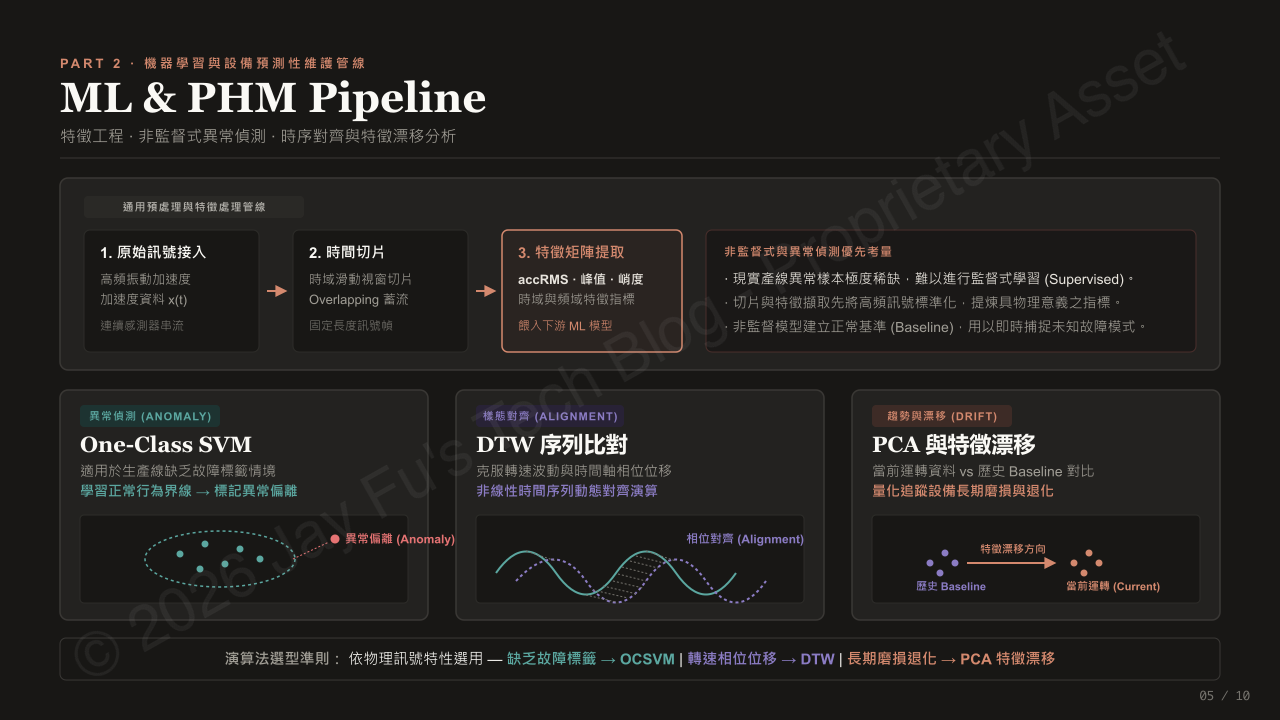
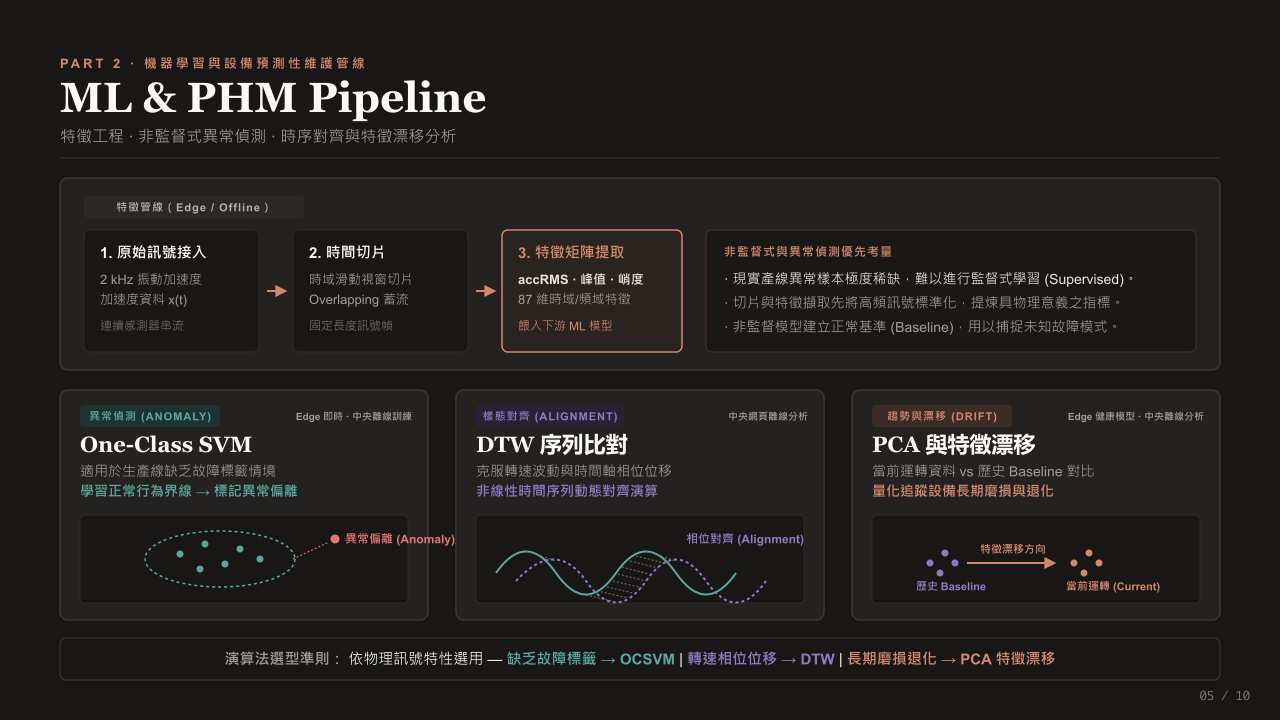
content: sync Edge AI platform post with updated slides

diff --git a/content/en/projects/edge-ai-platform-ppt169/index.md b/content/en/projects/edge-ai-platform-ppt169/index.md
@@ -20,7 +20,8 @@ cover:
 
 {{< tldr >}}
 - Five layers: React/MUI, Flask APIs, analytics, edge execution, and SQLite persistence.
-- A bounded deque batches recent samples (500 records or ~5s) but is not a durable queue.
+- The platform uses a bounded deque to batch recent feature rows (500 records or ~5s); it is not a durable queue.
+- Live inference runs on the edge; central services handle buffering, monitoring, offline training, and DTW analysis.
 - PHM uses RMS/FFT, One-Class SVM, DTW, and PCA drift monitoring; engineers interpret results.
 - AI agents are controlled clients: the backend enforces allowlists, authorization, validation, and audit logging.
 - Deployment starts as a Docker Compose edge monolith; decouple workers only when measurements justify it.
@@ -40,9 +41,9 @@ The platform turns equipment signals into information engineers can use to inves
 
 ```mermaid
 flowchart LR
-    A[Sensor Data] --> B[Feature Engineering]
-    B --> C[ML Analysis]
-    C --> D[Edge Inference]
+    A[Sensor Data] --> B[Edge Slicing / Features]
+    B --> C[Edge Health Inference]
+    C --> D[Platform Buffering / Persistence]
     D --> E[Health Monitoring]
     E --> F[AI Agent]
     F --> G[Engineering Decision]
@@ -52,10 +53,12 @@ The platform provides four capabilities:
 
 | Capability | Purpose |
 | --- | --- |
-| Sensor-data processing | Collect, organize, and transform equipment signals into usable data |
-| Feature engineering and ML | Extract signal characteristics, identify unusual patterns, and support health assessment |
-| Health monitoring | Track health scores, historical changes, and potential abnormal conditions |
+| Sensor-data processing | Collect 2 kHz vibration signals and prepare 30-second chunks |
+| Edge feature engineering and inference | Extract 87 time/frequency features and compute a health score with OCSVM/IForest on the edge |
+| Health monitoring | Track health scores and alerts; central services buffer feature rows and persist them to SQLite |
 | AI-assisted workflows | Retrieve relevant data, summarize findings, and help engineers investigate the next step |
+
+Central services handle buffering, persistence, offline training, PCA drift analysis, and DTW comparison separately from the live edge path.
 
 The AI agent is an assistance layer, not an autonomous replacement for engineering judgment.
 
@@ -141,6 +144,8 @@ Layering is a responsibility boundary, not independent microservices: the fronte
 
 Edge execution runs locally to keep high-frequency samples off the central service; the split depends on latency, compute, network, data volume, and deployment.
 
+On the live path, feature extraction and health inference run in L4 Edge; L3 handles offline training, batch analysis, and model management.
+
 ### 3.2 Frontend and backend collaboration
 
 The frontend uses React 18, Material UI, and React Flow; the backend uses Flask REST APIs with Blueprints for sensors, models, devices, users, and agents.
@@ -157,52 +162,56 @@ Latency metrics need consistent start and end points, must distinguish average, 
 
 ![End-to-end data flow](images/04_end_to_end_data_flow.png)
 
-The data flow defines how data enters, is processed, and stays stable under bursts.
+The data flow defines how data is sliced, featurized, and scored on the edge, and how the platform buffers, persists, and monitors it.
 
 ```mermaid
 flowchart LR
-    A["Sensor /<br/>File Input"] --> B["In-Memory<br/>Buffer"]
-    B --> C{"Batch<br/>Trigger<br/>(time or size)"}
+    A["Sensor<br/>2 kHz"] --> B["Slicing / Window<br/>2000 samples · 250 hop"]
+    B --> C["Feature Extraction<br/>87 dimensions"]
+    C --> D["Health Inference<br/>OCSVM / IForest"]
 ```
 
 ```mermaid
 flowchart LR
-    D["Persist /<br/>Prepare Batch"] --> E["Feature<br/>Extraction"]
-    E --> F["ML / PHM<br/>Analysis"]
+    E["HTTP POST<br/>features + score"] --> F["Bounded Queue<br/>deque(maxlen=5000)"]
+    F --> G["Batch Write<br/>5s / max 500"]
+    G --> H["SQLite<br/>10,000 feature rows"]
 ```
 
 ```mermaid
 flowchart LR
-    G["Health Score<br/>and Anomaly<br/>Results"] --> H["Dashboard /<br/>Report / Alert"]
-    H --> I["Engineer<br/>Review and<br/>Action"]
+    I["Health Score<br/>and Anomaly<br/>Results"] --> J["Dashboard /<br/>Report / Alert"]
+    J --> K["Engineer<br/>Review and<br/>Action"]
 ```
 
-### 4.1 Buffering and batching
+### 4.1 Edge signal processing and health inference
 
-Sensors produce data continuously; a bounded `deque(maxlen=5000)` buffers samples and flushes up to 500 records to SQLite every ~5s or when the batch threshold is reached, keeping high-frequency I/O from competing with queries.
+Sensors sample at 2 kHz, and the edge accumulates 30-second chunks. Each chunk is sliced with a 2000-sample window (about 1 second) and a 250-sample hop, turned into 87 time/frequency features, and passed to OCSVM/IForest for a health score. High-frequency data stays on the device; only features and scores leave it.
 
-At capacity it discards the oldest samples: a useful memory bound, **not a durable queue**. If every sample must survive, add a persistent queue, overflow handling, backpressure, and loss monitoring.
+### 4.2 Platform buffering and batch persistence
+
+A bounded `deque(maxlen=5000)` buffers feature rows and flushes up to 500 rows to SQLite every 5s, with a 10,000-row feature cap. This keeps high-frequency I/O from competing with queries.
 
 ```mermaid
 flowchart LR
-    A["Sensor Stream"] --> B["Bounded In-Memory Queue"]
+    A["HTTP POST features"] --> B["Bounded In-Memory Queue"]
     B --> C["Batch Flush Worker"]
-    C --> D["SQLite Persistence"]
+    C --> D["SQLite Feature Store"]
 ```
 
-### 4.2 Feature extraction and analysis
+At capacity it discards the oldest feature rows: a useful memory bound, **not a durable queue**. If every feature row must survive, add a persistent queue, overflow handling, backpressure, and loss monitoring.
 
-The batch yields features, anomaly indicators, a health score, and metadata.
+### 4.3 Monitoring, alerts, and agent analysis
 
-### 4.3 Results and action
-
-The platform presents results through dashboards, reports, or alerts; **anomaly detection identifies deviation, while root-cause analysis explains it** and needs history, equipment knowledge, and engineer validation—not a score alone.
+APScheduler runs a health check every 5 minutes, the frontend polls the latest state every 10s, and SSE streams agent events. **Anomaly detection identifies deviation, while root-cause analysis explains it** and needs history, equipment knowledge, and engineer validation—not a score alone.
 
 ## 5. Machine Learning and PHM Methods
 
 ![ML & PHM Pipeline](images/05_ml_phm_pipeline.png)
 
 PHM systems combine domain knowledge, signal processing, statistical analysis, and machine learning. No single algorithm answers every equipment-health question.
+
+The live path runs feature extraction and health inference on the edge; central services handle offline training, batch analysis, and historical comparison.
 
 ### 5.1 Signal features
 
@@ -212,6 +221,8 @@ Common signal features include:
 - **Peak:** captures the largest absolute amplitude in a window.
 - **Kurtosis:** measures tail behavior and can flag impulsive signals. Interpretation depends on the distribution and implementation.
 - **FFT (Fast Fourier Transform):** converts a time-domain signal into frequency components, revealing dominant frequencies and spectral changes.
+
+In this platform, the edge samples at 2 kHz, uses 30-second chunks and a 2000/250 window, and turns each window into 87 time/frequency features.
 
 For a signal \(x = [x_1, x_2, \ldots, x_N]\), RMS is defined as:
 
@@ -233,6 +244,8 @@ Important considerations include:
 - Monitor false positives and negatives; an anomaly score is not a diagnosis.
 - Revisit the baseline when conditions or equipment change.
 
+Execution: real-time health inference runs on the edge; central services can train and analyze offline.
+
 ```mermaid
 flowchart LR
     A["Historical Normal Data"] --> B["Feature Scaling"]
@@ -253,11 +266,15 @@ $$
 
 where \(d(x_i,y_j)\) is the local distance. A warping window cuts computation and prevents implausible alignments. **DTW is not universal**; results depend on references, distance metric, normalization, and domain.
 
+Execution: DTW is a central web-based offline analysis, not part of the edge live path.
+
 ### 5.4 PCA for data-drift monitoring
 
 Principal Component Analysis (PCA) projects correlated features into fewer dimensions. Comparing current data with a baseline reveals distribution changes.
 
 Drift does not mean failure; a changed recipe, sensor replacement, operating regime, or preprocessing change can all produce it.
+
+Execution: PCA supports the edge health model and central offline drift analysis.
 
 ```mermaid
 flowchart LR
@@ -268,13 +285,13 @@ flowchart LR
 
 ### 5.5 Choosing the method
 
-| Method | Primary purpose | Key limitation |
-| --- | --- | --- |
-| RMS / Peak / Kurtosis | Summarize time-domain signal characteristics | Can be sensitive to windowing, noise, and operating conditions |
-| FFT | Identify spectral components and frequency changes | Requires appropriate sampling and interpretation |
-| One-Class SVM | Detect deviations from a learned normal-data boundary | Depends on baseline quality and parameter selection |
-| DTW | Compare sequences with temporal misalignment | Can be computationally expensive and reference-dependent |
-| PCA | Monitor multivariate structure and potential drift | Drift is not equivalent to failure |
+| Method | Primary purpose | Execution | Key limitation |
+| --- | --- | --- | --- |
+| RMS / Peak / Kurtosis | Summarize time-domain signal characteristics | Edge feature extraction; central offline analysis | Can be sensitive to windowing, noise, and operating conditions |
+| FFT | Identify spectral components and frequency changes | Edge feature extraction; central offline analysis | Requires appropriate sampling and interpretation |
+| One-Class SVM | Detect deviations from a learned normal-data boundary | Edge real-time inference; central offline training | Depends on baseline quality and parameter selection |
+| DTW | Compare sequences with temporal misalignment | Central web-based offline analysis | Can be computationally expensive and reference-dependent |
+| PCA | Monitor multivariate structure and potential drift | Edge health model; central offline analysis | Drift is not equivalent to failure |
 
 The methods are complementary; validate combinations against the equipment and data.
 
@@ -301,13 +318,13 @@ flowchart LR
 ### 6.3 SQLite and data separation
 
 - `edge_ai.db` — application records, configuration, model history.
-- `vibration.db` — vibration data and alerts.
+- `vibration.db` — vibration features, health scores, and alerts.
 
-SQLAlchemy manages access; `ATTACH DATABASE` supports cross-database queries. **Separate files do not provide cross-database atomicity**; transactions, backups, migrations, and concurrent writes still need testing.
+SQLAlchemy manages access; `ATTACH DATABASE` supports cross-database queries. **Separate files do not provide cross-database atomicity**; transactions, backups, migrations, and concurrent writes still need testing. Monitoring and queries primarily use feature columns; raw-data fields are not the main query path.
 
 ### 6.4 Scheduled tasks and model history
 
-APScheduler runs periodic jobs such as drift checks, reports, or maintenance summaries. Jobs must tolerate retries, failures, and partial completion. Starting the scheduler in **multiple web workers can duplicate jobs**; use a dedicated scheduler or single-owner mechanism. Model-build history records model version, training-data reference, configuration, timestamp, and evaluation results. Builds need explicit states so a failed run differs from one that never started:
+APScheduler runs periodic jobs such as health checks, drift checks, reports, or maintenance summaries. Jobs must tolerate retries, failures, and partial completion. Starting the scheduler in **multiple web workers can duplicate jobs**; use a dedicated scheduler or single-owner mechanism. Model-build history records model version, training-data reference, configuration, timestamp, and evaluation results. Builds need explicit states so a failed run differs from one that never started:
 
 ```mermaid
 stateDiagram-v2
@@ -398,7 +415,7 @@ flowchart LR
 ### 8.3 Monitoring
 
 - API request rate, latency, and error rate.
-- Ingestion delay, queue depth, batch size, and dropped samples.
+- Feature ingestion delay, queue depth, batch size, and dropped feature rows.
 - Model execution duration and analysis failures.
 - Scheduler job start time, duration, and outcome.
 - Agent tool-call success rate, timeouts, and cost.
@@ -414,7 +431,7 @@ Failure handling must be designed into the data path, not added after an inciden
 
 | Failure | Risk | Mitigation |
 | --- | --- | --- |
-| Buffer full | Old samples may be dropped | Track drops; use durable buffering if loss is unacceptable |
+| Buffer full | Old feature rows may be dropped | Track drops; use durable buffering if loss is unacceptable |
 | Source unavailable | Stale or incomplete analysis | Track freshness; surface missing data; do not treat stale values as current |
 | Model fails | Missing or invalid result | Record context, bounded retries, keep the last valid result with a timestamp |
 | SQLite contention | Delayed or failed writes | Reduce competing writers, batch writes, tune transactions, or migrate |
